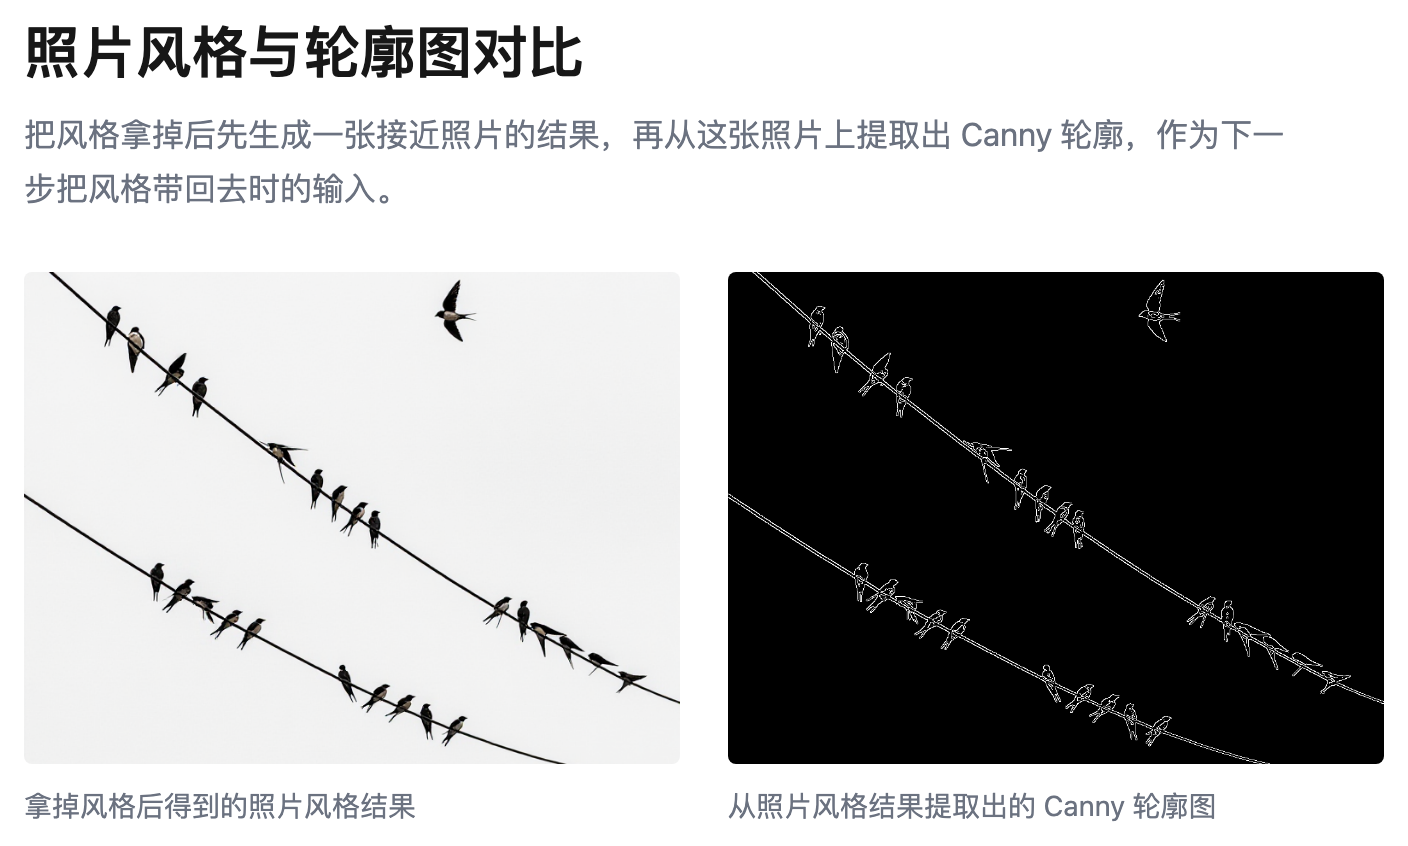
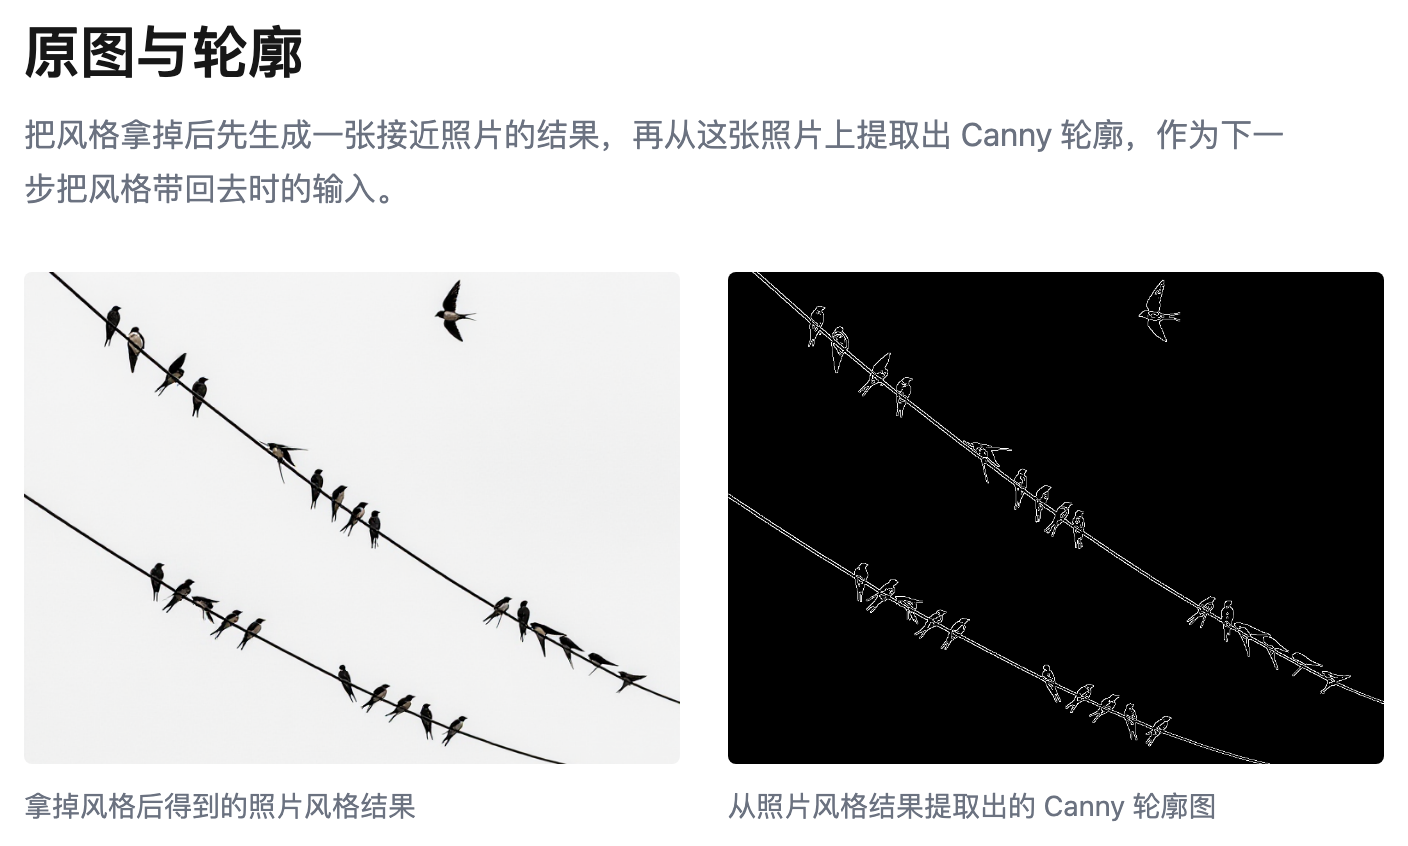
[draft] 图组标题改为「原图与轮廓」：更简洁准确地概括左右两张图（照片风格结果与其 Canny 轮廓），正文段落和两条 caption 未改动

Changed region(s): [[0.0, 0.0307, 0.4375, 0.0922]]

diff --git a/articles/2026-09-23-guide-image-with-pen/assets/pen-guide-photo-vs-contour.source.html b/articles/2026-09-23-guide-image-with-pen/assets/pen-guide-photo-vs-contour.source.html
@@ -10,7 +10,7 @@
 <div style="width: 1160px; box-sizing: border-box; background: #ffffff; padding: 64px; display: flex; flex-direction: column; gap: 28px;">
 
   <div style="display: flex; flex-direction: column; gap: 8px;">
-    <h2 style="margin: 0; font-size: 28px; font-weight: 800; color: #171717;">照片风格与轮廓图对比</h2>
+    <h2 style="margin: 0; font-size: 28px; font-weight: 800; color: #171717;">原图与轮廓</h2>
     <p style="margin: 0; font-size: 16px; color: #6B7280; max-width: 640px; line-height: 1.7;">把风格拿掉后先生成一张接近照片的结果，再从这张照片上提取出 Canny 轮廓，作为下一步把风格带回去时的输入。</p>
   </div>
 
